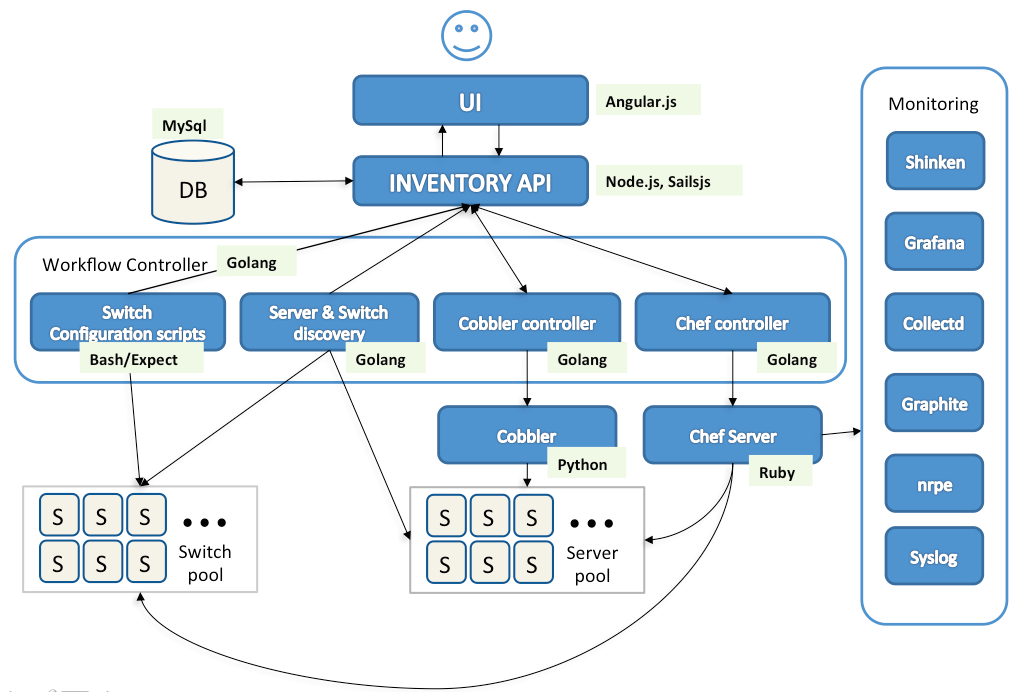
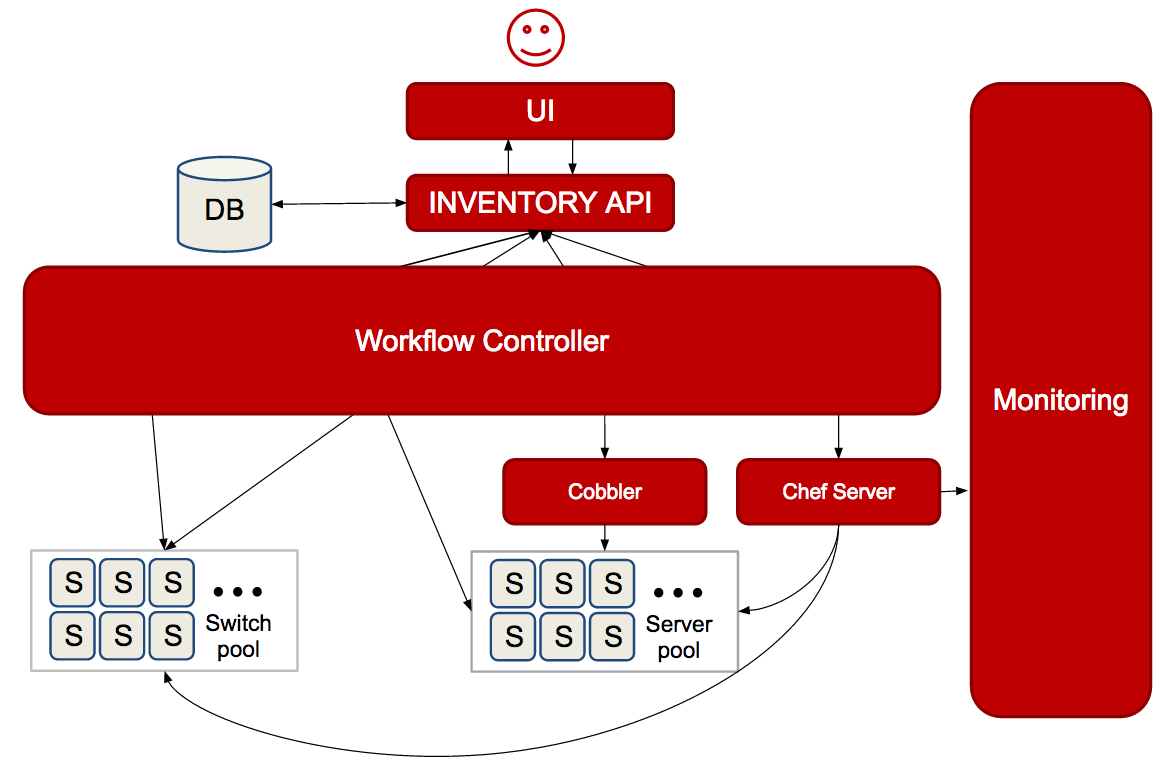
Images updated

diff --git a/index.html b/index.html
@@ -46,7 +46,19 @@
         <p>
           <small>Created by <a href="http://www.parnurzeal.com">Theeraphol Wattanavekin</a> / <a href="http://twitter.com/parnurzeal">@parnurzeal</a></small>
         </p>
+        <aside class="notes">
+          สวัสดีครับทุกคน ผมชื่อ เอ ธีระพล นะครับ ไม่ใช่ เคน ธีรเดช
+          วันนี้ ผมจะมาพูดเกี่ยวกับการทำ private cloud ในบริษัทกัน
+        </aside>
         </section>
+
+        <!--<section>
+        <aside class="notes">
+        ตัวผมเองนั้น ผมทำงานที่ Rakuten ที่ญี่ปุ่น ทำงาน project นี้มา 1 ปีเต็ม
+        Rakuten เป็นบริษัท Online Shopping Mall ที่ใหญ่ที่สุดในญี่ปุ่น
+        และปรากฎตัวอยู่ในระดับ Global stage ในหลายๆประเทศ อย่างประเทศไทย Tarad ก็เป็นสาขานึงของ Rakuten
+        </aside>
+        </section>-->
 
         <section>
         <h2>Private cloud??? <br>Why not public one?</h2>
@@ -58,6 +70,17 @@
           <li>Lower cost</li>
         </ul>
         <aside class="notes">
+        เอาละ มาเข้าเรื่องกัน ทุกคนหลายกันในห้องคงจะได้ใช้พวก public cloud กันเป็นส่วนใหญ่
+        ไม่ว่าจะเป็น Amazon AWS, Digital Ocean, Google Cloud Platform, etc. และอีกมากมาย
+        ทุกคนก็คงจะสงสัยว่าพวกนี้ก็มีให้ใช้เยอะแยะ แล้วทำไมต้องมาสร้าง private cloud ของตัวเองด้วย???
+
+        อย่างแรกเลย คือ เรื่องของ Security ซึ่งถือเป็นเรื่องหลักเรื่องหนึ่งที่ Rakuten คิดจะสร้าง private cloud ของตัวเอง
+        การที่เป็น public cloud เราเหมือนยื่น data ของเราทั้งหมดไปฝากไว้กับคนอื่น
+
+        อย่างที่สอง เรื่องของ performance ซึ่งการทำ private cloud ทำให้เราสามารถเลือก hardware server ได้เอง
+        ซึ่ง ณ ตอนนั้นเราเลือกที่จะรัน application มัน pure server ไม่ใช้ VM เพื่อให้ได้ high performance ที่ค่อนข้าง stable มากกว่า VM
+
+
         </aside>
         </section>
 
@@ -116,10 +139,25 @@
         </section>
         </section>
 
+        <section data-background="#b5533c" >
+        <img src="images/inventory2.png">
+        </section>
 
         <section>
         <section>
-        <h2>Baremetal Provisioning</h2>
+        <h2>Architecture @ <span style="color:red;">Rakuten</span></h2>
+        </section>
+        <section>
+        <img src="images/architecture2.png" alt="architecture">
+        </section>
+        </section>
+
+        <section>
+        <section>
+        <img src="images/ui_arch2.png">
+        </section>
+        <section>
+        <h2>UI</h2>
         <img src="images/inventory2.png" alt="inventory ui">
         <aside class="notes">
           และนี่ คือ UI
@@ -127,55 +165,34 @@
         </section>
         <section>
         <img src="images/json.png" style="width:50%; float:left;" alt="json">
-        <h2 style="text-align:right;"><br><br><br>RESTful API</h2>
+        <h2 style="text-align:right;"><br><br><br>Inventory API (Restful)</h2>
         <aside class="notes">
           ข้างหลังของมันคือ backend api ที่เป็น json
           ต่อเข้ากับ mysql database ที่เก็บข้อมูลของ servers และ network switch ไว้ทั้งหมด
         </aside>
         </section>
         </section>
-        <section>
-        <section>
-        <h1>Architecture</h1>
-        </section>
-        <section>
-        <img src="images/architecture2.png" alt="architecture">
-        </section>
-        <section>
-        <img src="images/ui_arch.png">
-        </section>
-        </section>
+
 
         <section>
-        <section>
+        <!--<section>
         <h1>Cobbler</h1>
         <p>
         Make Linux installation under your control<br>
         </p>
-        </section>
+        </section>-->
         <section>
-        <img src="images/cobbler_arch.png" alt="architecture">
+        <img src="images/cobbler_arch2.png" alt="architecture">
         </section>
         <section>
         <img src="images/cobbler_site.png" alt="cobbler interface">
         </section>
-        <section>
-        <h2>OS Images</h2>
-        <img src="images/os_selection.gif" alt="os selection">
-        </section>
         </section>
 
         <section>
         <section>
-        <h1>Controller</h1>
-        <p>Combine all components into One</p>
+        <img src="images/chef_arch2.png" alt="architecture">
         </section>
-        <section>
-        <img src="images/controller_arch.png" alt="architecture">
-        </section>
-        </section>
-
-        <section>
         <section>
         <img src="images/chef_logo.png">
         <h1>Chef</h1>
@@ -184,22 +201,28 @@
         (OS configs, accounts, monitoring, etc.)
         </p>
         </section>
-        <section>
-        <img src="images/chef_arch.png" alt="architecture">
-        </section>
         </section>
 
         <section>
         <section>
-        <h1>Monitoring</h1>
-        <p>
-        Alert when there is a problem.<br>
-        Log to find the cause.<br>
-        Test to see the benchmark result.
-        </p>
+        <img src="images/controller_arch.png" alt="architecture">
         </section>
         <section>
-        <img src="images/monitoring_arch.png" alt="architecture">
+        <img src="images/controller_arch2.png">
+        </section>
+        <section>
+        <h1>Controller</h1>
+        <p>Combine all components into One</p>
+        </section>
+        </section>
+
+
+        <section>
+        <section>
+        <img src="images/monitoring_arch2.png" alt="architecture">
+        </section>
+        <section>
+        <img src="images/monitoring_arch3.png">
         </section>
         <section>
         <h2>Metric Dashboard</h2>
@@ -213,22 +236,24 @@
         <h2>Alert & Solve the problem</h2>
         <img src="images/shinken.png">
         </section>
+        <section>
+        <h1>Monitoring</h1>
+        <p>
+        Alert when there is a problem.<br>
+        Log to find the cause.<br>
+        Test to see the benchmark result.
+        </p>
+        </section>
         </section>
 
 				<section style="text-align: left;">
 					<h1>THE END</h1>
-					<!--<p>
-						- <a href="http://slides.com">Try the online editor</a> <br>
-						- <a href="https://github.com/hakimel/reveal.js">Source code &amp; documentation</a>
-            </p>-->
+					<p>
+						- Github: <a href="http://github.com/parnurzeal">parnurzeal</a> <br>
+            - Cobbler: <a href="http://cobbler.github.io/">http://cobbler.github.io/</a> <br>
+            - Chef: <a href="https://www.chef.io/">https://www.chef.io/</a>
+          </p>
         </section>
-
-
-
-
-
-
-
 
 				<!-- Example of nested vertical slides -->
 				<section>
